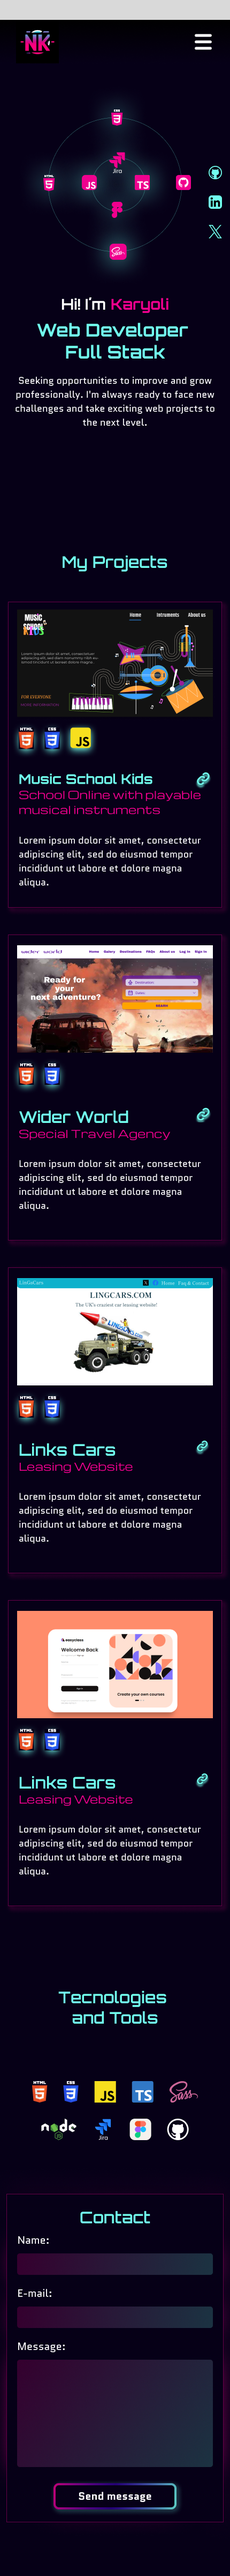
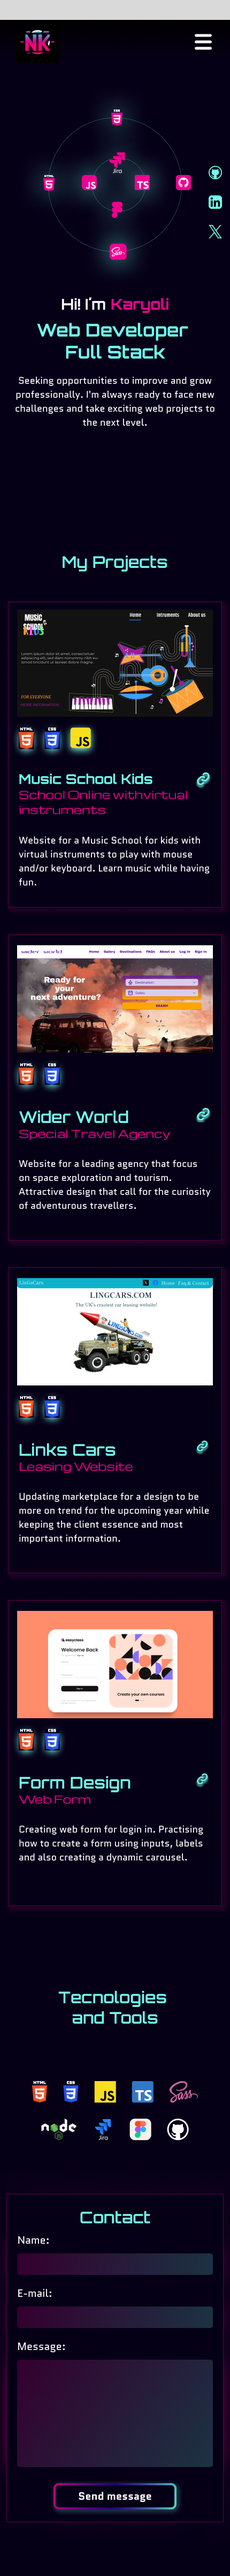
agregando img demo figma

diff --git a/index.html b/index.html
@@ -58,8 +58,8 @@
                         <img src="./src/assets/jsColorIcon.png">
                     </div>
                     <h2>Music School Kids</h2>
-                    <h3>School Online with playable musical instruments</h3>
-                    <p class="text">Lorem ipsum dolor sit amet, consectetur adipiscing elit, sed do eiusmod tempor incididunt ut labore et dolore magna aliqua.</p>
+                    <h3>School Online with virtual instruments</h3>
+                    <p class="text">Website for a Music School for kids with virtual instruments to play with mouse and/or keyboard. Learn music while having fun.</p>
                 </article>
                 <article class="card">
                         <figure>
@@ -73,8 +73,8 @@
                         <img src="./src/assets/csssColorIcon.png">
                     </div>
                     <h2>Wider World</h2>
-                    <h3>Special Travel Agency Website</h3>
-                    <p  class="text">Lorem ipsum dolor sit amet, consectetur adipiscing elit, sed do eiusmod tempor incididunt ut labore et dolore magna aliqua.</p>
+                    <h3>Special Travel Agency</h3>
+                    <p  class="text">Website for a leading agency that focus on space exploration and tourism. Attractive design that call for the curiosity of adventurous travellers.</p>
                 </article>
             </div>
             <div class="row flex">
@@ -91,7 +91,7 @@
                     </div>
                     <h2>Lings Cars</h2>
                     <h3>Car Leasing Website</h3>
-                    <p  class="text">Lorem ipsum dolor sit amet, consectetur adipiscing elit, sed do eiusmod tempor incididunt ut labore et dolore magna aliqua.</p>
+                    <p  class="text">Updating marketplace for a design to be more on trend for the upcoming year while keeping the client essence and most important information.</p>
                 </article>
                 <article class="card">
                     <figure>
@@ -106,7 +106,7 @@
                     </div>
                     <h2>Form Design</h2>
                     <h3>Web form</h3>
-                    <p  class="text">Lorem ipsum dolor sit amet, consectetur adipiscing elit, sed do eiusmod tempor incididunt ut labore et dolore magna aliqua.</p>
+                    <p  class="text">Creating web form for login in. Practising how to create a form using inputs, labels and also creating a dynamic carousel.</p>
                 </article>      
             </div>
         </div>
